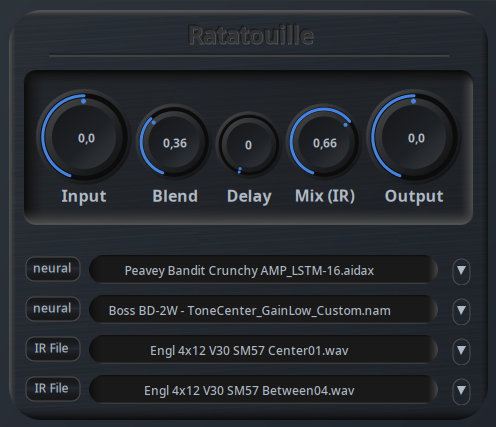
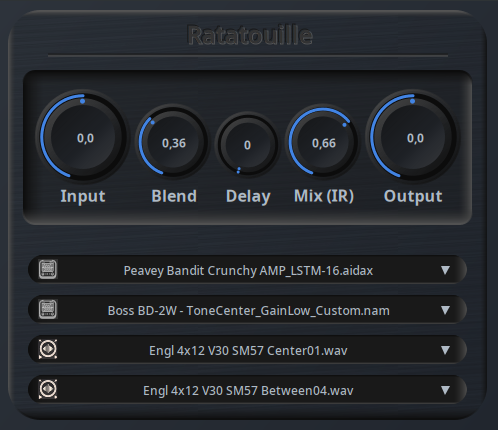
Prepare for new release

diff --git a/Ratatouille/lv2_plugin.cc b/Ratatouille/lv2_plugin.cc
@@ -152,35 +152,35 @@ static void draw_window(void *w_, void* user_data) {
     cairo_stroke (w->crb);
 
     cairo_set_source_rgba(w->crb, 0.1, 0.1, 0.1, 1);
-    round_rectangle(w->crb, 90 * w->app->hdpi, 254 * w->app->hdpi,
-                                            350 * w->app->hdpi, 30 * w->app->hdpi, 0.5);
+    round_rectangle(w->crb, 30 * w->app->hdpi, 254 * w->app->hdpi,
+                                            440 * w->app->hdpi, 30 * w->app->hdpi, 0.5);
     cairo_fill_preserve (w->crb);
-    boxShadowInset(w->crb,90 * w->app->hdpi,254 * w->app->hdpi,
-                                            350 * w->app->hdpi, 30 * w->app->hdpi, true);
+    boxShadowInset(w->crb,30 * w->app->hdpi,254 * w->app->hdpi,
+                                            440 * w->app->hdpi, 30 * w->app->hdpi, true);
     cairo_fill (w->crb);
 
     cairo_set_source_rgba(w->crb, 0.1, 0.1, 0.1, 1);
-    round_rectangle(w->crb, 90 * w->app->hdpi, 294 * w->app->hdpi,
-                                            350 * w->app->hdpi, 30 * w->app->hdpi, 0.5);
+    round_rectangle(w->crb, 30 * w->app->hdpi, 294 * w->app->hdpi,
+                                            440 * w->app->hdpi, 30 * w->app->hdpi, 0.5);
     cairo_fill_preserve (w->crb);
-    boxShadowInset(w->crb,90 * w->app->hdpi,294 * w->app->hdpi,
-                                            350 * w->app->hdpi, 30 * w->app->hdpi, true);
+    boxShadowInset(w->crb,30 * w->app->hdpi,294 * w->app->hdpi,
+                                            440 * w->app->hdpi, 30 * w->app->hdpi, true);
     cairo_fill (w->crb);
 
     cairo_set_source_rgba(w->crb, 0.1, 0.1, 0.1, 1);
-    round_rectangle(w->crb, 90 * w->app->hdpi, 334 * w->app->hdpi,
-                                            350 * w->app->hdpi, 30 * w->app->hdpi, 0.5);
+    round_rectangle(w->crb, 30 * w->app->hdpi, 334 * w->app->hdpi,
+                                            440 * w->app->hdpi, 30 * w->app->hdpi, 0.5);
     cairo_fill_preserve (w->crb);
-    boxShadowInset(w->crb,90 * w->app->hdpi,334 * w->app->hdpi,
-                                            350 * w->app->hdpi, 30 * w->app->hdpi, true);
+    boxShadowInset(w->crb,30 * w->app->hdpi,334 * w->app->hdpi,
+                                            440 * w->app->hdpi, 30 * w->app->hdpi, true);
     cairo_fill (w->crb);
 
     cairo_set_source_rgba(w->crb, 0.1, 0.1, 0.1, 1);
-    round_rectangle(w->crb, 90 * w->app->hdpi, 374 * w->app->hdpi,
-                                            350 * w->app->hdpi, 30 * w->app->hdpi, 0.5);
+    round_rectangle(w->crb, 30 * w->app->hdpi, 374 * w->app->hdpi,
+                                            440 * w->app->hdpi, 30 * w->app->hdpi, 0.5);
     cairo_fill_preserve (w->crb);
-    boxShadowInset(w->crb,90 * w->app->hdpi,374 * w->app->hdpi,
-                                            350 * w->app->hdpi, 30 * w->app->hdpi, true);
+    boxShadowInset(w->crb,30 * w->app->hdpi,374 * w->app->hdpi,
+                                            440 * w->app->hdpi, 30 * w->app->hdpi, true);
     cairo_fill (w->crb);
 
     use_text_color_scheme(w, NORMAL_);
@@ -590,7 +590,7 @@ void draw_my_button(void *w_, void* user_data) {
     if (!w->state && (int)w->adj_y->value)
         w->state = 3;
 
-    roundrec(w->crb,2.0, 4.0, width, height, height*0.33);
+  /*  roundrec(w->crb,2.0, 4.0, width, height, height*0.33);
 
     if(w->state==0) {
         cairo_set_line_width(w->crb, 1.0);
@@ -615,7 +615,7 @@ void draw_my_button(void *w_, void* user_data) {
     } else if (w->state==3) {
         roundrec(w->crb,3.0, 4.0, width, height, height*0.33);
         cairo_stroke(w->crb);
-    }
+    } */
 
     float offset = 0.0;
     if(w->state==0) {
@@ -677,6 +677,11 @@ static void my_fbutton_callback(void *w_, void* user_data) {
         if (!filebutton->w) {
             filebutton->w = open_file_dialog(w,filebutton->path,filebutton->filter);
             filebutton->w->flags |= HIDE_ON_DELETE;
+            if (strcmp(filebutton->filter, ".wav") == 0) {
+                widget_set_title(filebutton->w, _("File Selector - Select Impulse Response"));
+            } else {
+                widget_set_title(filebutton->w, _("File Selector - Select Neural Model"));
+            }
 #ifdef __linux__
             Atom wmStateAbove = XInternAtom(w->app->dpy, "_NET_WM_STATE_ABOVE", 1 );
             Atom wmNetWmState = XInternAtom(w->app->dpy, "_NET_WM_STATE", 1 );
@@ -703,6 +708,46 @@ static void my_fbutton_mem_free(void *w_, void* user_data) {
     filebutton = NULL;
 }
 
+void draw_image_(Widget_t *w, int width_t, int height_t, float offset) {
+    int width, height;
+    os_get_surface_size(w->image, &width, &height);
+    //double half_width = (width/height >=2) ? width*0.5 : width;
+    double x = (double)width_t/(double)(width);
+    double y = (double)height_t/(double)height;
+    double x1 = (double)height/(double)height_t;
+    double y1 = (double)(width)/(double)width_t;
+    double off_set = offset*x1;
+    cairo_scale(w->crb, x,y);
+    cairo_set_source_surface (w->crb, w->image, off_set, off_set);
+    cairo_rectangle(w->crb,0, 0, height, height);
+    cairo_fill(w->crb);
+    cairo_scale(w->crb, x1,y1);
+}
+
+void draw_i_button(void *w_, void* user_data) {
+    Widget_t *w = (Widget_t*)w_;
+    if (!w) return;
+    Metrics_t metrics;
+    os_get_window_metrics(w, &metrics);
+    int width = metrics.width-5;
+    int height = metrics.height-5;
+    if (!metrics.visible) return;
+    if (w->image) {
+        float offset = 0.0;
+        if(w->state==1 && ! (int)w->adj_y->value) {
+            offset = 1.0;
+        } else if(w->state==1) {
+            offset = 2.0;
+        } else if(w->state==2) {
+            offset = 2.0;
+        } else if(w->state==3) {
+            offset = 1.0;
+        }
+        
+       draw_image_(w, width, height,offset);
+   }
+}
+
 Widget_t *add_my_file_button(Widget_t *parent, int x, int y, int width, int height,
                            const char* label, const char *path, const char *filter) {
     FileButton *filebutton = (FileButton*)malloc(sizeof(FileButton));
@@ -718,6 +763,7 @@ Widget_t *add_my_file_button(Widget_t *parent, int x, int y, int width, int heig
     fbutton->func.mem_free_callback = my_fbutton_mem_free;
     fbutton->func.value_changed_callback = my_fbutton_callback;
     fbutton->func.dialog_callback = my_fdialog_response;
+    fbutton->func.expose_callback = draw_i_button;
     return fbutton;
 }
 
@@ -725,6 +771,7 @@ Widget_t *add_my_file_button(Widget_t *parent, int x, int y, int width, int heig
 Widget_t* add_lv2_file_button(Widget_t *w, Widget_t *p, PortIndex index, const char * label,
                                 X11_UI* ui, int x, int y, int width, int height) {
     w = add_my_file_button(p, x, y, width, height, "neural", "", ".nam|.aidax|.json");
+    widget_get_png(w, LDVAR(neuraldir_png));
     w->data = index;
     return w;
 }
@@ -732,6 +779,7 @@ Widget_t* add_lv2_file_button(Widget_t *w, Widget_t *p, PortIndex index, const c
 Widget_t* add_lv2_irfile_button(Widget_t *w, Widget_t *p, PortIndex index, const char * label,
                                 X11_UI* ui, int x, int y, int width, int height) {
     w = add_my_file_button(p, x, y, width, height, "IR File", "", ".wav");
+    widget_get_png(w, LDVAR(wavdir_png));
     w->data = index;
     return w;
 }

diff --git a/Ratatouille/Ratatouille.c b/Ratatouille/Ratatouille.c
@@ -333,19 +333,19 @@ void plugin_create_controller_widgets(X11_UI *ui, const char * plugin_uri) {
     asprintf(&ps->ir1.filepicker->filter ,"%s", ".wav");
     ps->ir1.filepicker->use_filter = 1;
 
-    ps->ma.filebutton = add_lv2_file_button (ps->ma.filebutton, ui->win, -1, "Neural Model", ui, 25,  254, 60, 30);
+    ps->ma.filebutton = add_lv2_file_button (ps->ma.filebutton, ui->win, -1, "Neural Model", ui, 40,  258, 25, 25);
     ps->ma.filebutton->parent_struct = (void*)&ps->ma;
     ps->ma.filebutton->func.user_callback = file_load_response;
 
-    ps->mb.filebutton = add_lv2_file_button (ps->mb.filebutton, ui->win, -2, "Neural Model", ui, 25,  294, 60, 30);
+    ps->mb.filebutton = add_lv2_file_button (ps->mb.filebutton, ui->win, -2, "Neural Model", ui, 40,  298, 25, 25);
     ps->mb.filebutton->parent_struct = (void*)&ps->mb;
     ps->mb.filebutton->func.user_callback = file_load_response;
 
-    ps->ir.filebutton = add_lv2_irfile_button (ps->ir.filebutton, ui->win, -3, "IR File", ui, 25,  334, 60, 30);
+    ps->ir.filebutton = add_lv2_irfile_button (ps->ir.filebutton, ui->win, -3, "IR File", ui, 40,  338, 25, 25);
     ps->ir.filebutton->parent_struct = (void*)&ps->ir;
     ps->ir.filebutton->func.user_callback = file_load_response;
 
-    ps->ir1.filebutton = add_lv2_irfile_button (ps->ir1.filebutton, ui->win, -4, "IR File", ui, 25,  374, 60, 30);
+    ps->ir1.filebutton = add_lv2_irfile_button (ps->ir1.filebutton, ui->win, -4, "IR File", ui, 40,  378, 25, 25);
     ps->ir1.filebutton->parent_struct = (void*)&ps->ir1;
     ps->ir1.filebutton->func.user_callback = file_load_response;
 
@@ -374,25 +374,25 @@ void plugin_create_controller_widgets(X11_UI *ui, const char * plugin_uri) {
     set_widget_color(ui->widget[1], 0, 0, 0.259, 0.518, 0.894, 1.0);
     set_widget_color(ui->widget[1], 0, 3,  0.686, 0.729, 0.773, 1.0);
 
-    ps->ma.fbutton = add_lv2_button(ps->ma.fbutton, ui->win, "", ui, 450,  254, 22, 30);
+    ps->ma.fbutton = add_lv2_button(ps->ma.fbutton, ui->win, "", ui, 435,  254, 22, 30);
     ps->ma.fbutton->parent_struct = (void*)&ps->ma;
     combobox_set_pop_position(ps->ma.fbutton, 0);
     combobox_add_entry(ps->ma.fbutton, "None");
     ps->ma.fbutton->func.value_changed_callback = file_menu_callback;
 
-    ps->mb.fbutton = add_lv2_button(ps->mb.fbutton, ui->win, "", ui, 450,  294, 22, 30);
+    ps->mb.fbutton = add_lv2_button(ps->mb.fbutton, ui->win, "", ui, 435,  294, 22, 30);
     ps->mb.fbutton->parent_struct = (void*)&ps->mb;
     combobox_set_pop_position(ps->mb.fbutton, 0);
     combobox_add_entry(ps->mb.fbutton, "None");
     ps->mb.fbutton->func.value_changed_callback = file_menu_callback;
 
-    ps->ir.fbutton = add_lv2_button(ps->ir.fbutton, ui->win, "", ui, 450,  334, 22, 30);
+    ps->ir.fbutton = add_lv2_button(ps->ir.fbutton, ui->win, "", ui, 435,  334, 22, 30);
     ps->ir.fbutton->parent_struct = (void*)&ps->ir;
     combobox_set_pop_position(ps->ir.fbutton, 0);
     combobox_add_entry(ps->ir.fbutton, "None");
     ps->ir.fbutton->func.value_changed_callback = file_menu_callback;
 
-    ps->ir1.fbutton = add_lv2_button(ps->ir1.fbutton, ui->win, "", ui, 450,  374, 22, 30);
+    ps->ir1.fbutton = add_lv2_button(ps->ir1.fbutton, ui->win, "", ui, 435,  374, 22, 30);
     ps->ir1.fbutton->parent_struct = (void*)&ps->ir1;
     combobox_set_pop_position(ps->ir1.fbutton, 0);
     combobox_add_entry(ps->ir1.fbutton, "None");

diff --git a/Ratatouille/gx_convolver.cc b/Ratatouille/gx_convolver.cc
@@ -481,7 +481,7 @@ void ConvolverWorker::set_priority() {
         fprintf(stderr, "ConvolverWorker: fail to set priority\n");
     }
 #else
-		//system does not supports thread priority!
+    //system does not supports thread priority!
 #endif
 }
 
@@ -510,6 +510,7 @@ void ConvolverWorker::run() {
             if (_execute.load(std::memory_order_acquire)) {
                 _xr.doBackgroundProcessing();
                 _xr.co.notify_one();
+                _xr.setWait.store(false, std::memory_order_release);
             }
         }
         // when done
@@ -527,12 +528,10 @@ bool ConvolverWorker::is_running() const noexcept {
 
 void DoubleThreadConvolver::startBackgroundProcessing()
 {
-    //fprintf(stderr, "startBackgroundProcessing\n");
     if (work.is_running()) {
+        timePoint = std::chrono::steady_clock::now() + timeoutPeriod;
+        setWait.store(true, std::memory_order_release);
         work.cv.notify_one();
-        std::unique_lock<std::mutex> lk(mo);
-        if (co.wait_until(lk, timePoint) == std::cv_status::timeout)
-            fprintf(stderr, "Convolver: overrun, time out!!\n");
     } else {
         doBackgroundProcessing();
     }
@@ -541,8 +540,13 @@ void DoubleThreadConvolver::startBackgroundProcessing()
 
 void DoubleThreadConvolver::waitForBackgroundProcessing()
 {
-    timePoint = std::chrono::steady_clock::now() + timeoutPeriod;
-    //fprintf(stderr, "waitForBackgroundProcessing\n");
+    if (setWait.load(std::memory_order_acquire)) {
+        if (work.is_running()) {
+            std::unique_lock<std::mutex> lk(mo);
+            if (co.wait_until(lk, timePoint) == std::cv_status::timeout)
+                fprintf(stderr, "Convolver: overrun, time out!!\n");
+        }
+    }
 }
 
 bool DoubleThreadConvolver::get_buffer(std::string fname, float **buffer, uint32_t *rate, int *asize)
@@ -600,7 +604,7 @@ bool DoubleThreadConvolver::get_buffer(std::string fname, float **buffer, uint32
 
 
 bool DoubleThreadConvolver::configure(std::string fname, float gain, unsigned int delay, unsigned int offset,
-		   unsigned int length, unsigned int size, unsigned int bufsize)
+            unsigned int length, unsigned int size, unsigned int bufsize)
 {
     float* abuf = NULL;
     uint32_t arate = 0;

diff --git a/Ratatouille/gx_convolver.h b/Ratatouille/gx_convolver.h
@@ -232,7 +232,8 @@ public:
 
     DoubleThreadConvolver()
         : resamp(), ready(false), samplerate(0), work(*this) {
-            timeoutPeriod = std::chrono::microseconds(2000);}
+            timeoutPeriod = std::chrono::microseconds(2000);
+            setWait.store(false, std::memory_order_release);}
 
     ~DoubleThreadConvolver() { reset(); work.stop();}
 
@@ -247,6 +248,7 @@ private:
     uint32_t buffersize;
     uint32_t samplerate;
     ConvolverWorker work;
+    std::atomic<bool> setWait;
     std::chrono::time_point<std::chrono::steady_clock> timePoint;
     std::chrono::microseconds timeoutPeriod;
     bool get_buffer(std::string fname, float **buffer, uint32_t* rate, int* size);
